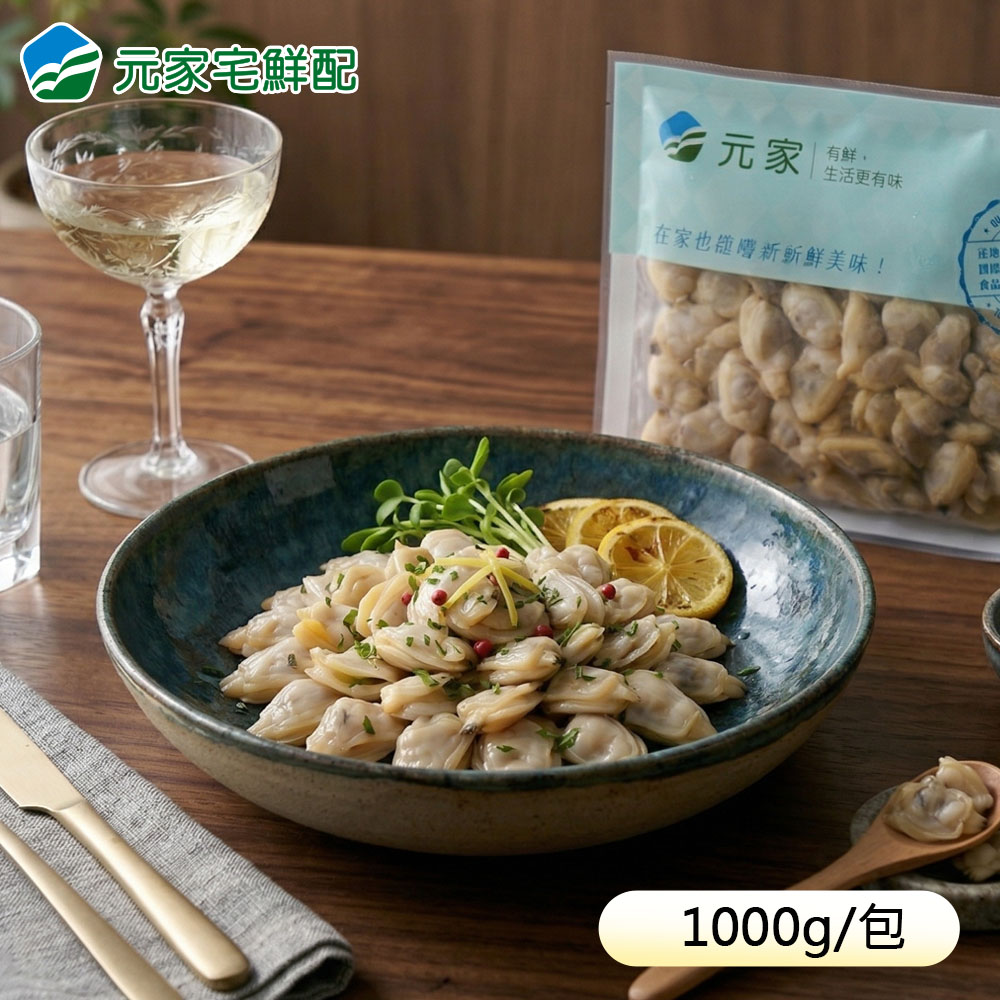
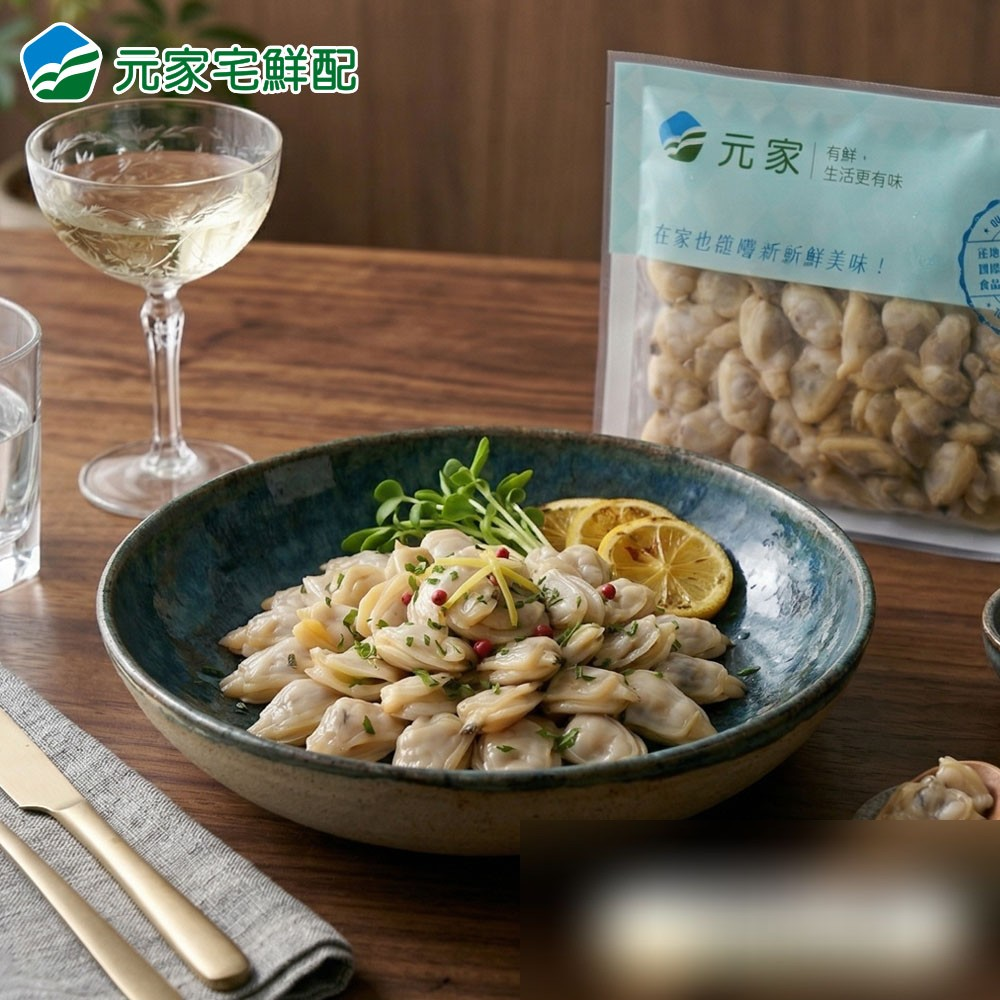
fix(b2c): 購物車商品圖片顯示 + 商品照片規格色塊改用模糊處理
兩個獨立修正：

1. 購物車圖片一直顯示「無圖片」：CartItem（src/lib/cart/store.ts）只存
   productId／slug／name／price／quantity 快照，加入購物車當下沒有把圖片
   存進去。圖片不像名稱／價格會變動，不需要跟著鎖快照，改成用
   `item.slug` 即時查 `getProductPhoto()`（src/lib/product-photos.ts），
   CartDrawer.tsx（Header 下拉）與 cart/cart-page-client.tsx（/cart 頁）
   都補上，沒有對應照片時維持原本「無圖片」佔位，不影響防呆邏輯。

2. 商品照片規格色塊改用模糊處理，取代上次的「維持原圖＋加強文字揭露」：
   使用者重新考慮後認為文字揭露終究是事後說明，客人還是會先看到照片上
   印著跟頁面文字不同的數字。這次直接處理 4 張照片本身（虱目魚肚／鮭魚
   菲力／天使紅蝦／蛤蜊）右下角印著規格重量的色塊區域，用該區域自己的
   像素做強力高斯模糊（不是裁切——裁切會改變圖片長寬比，套進目前
   `aspect-square` 容器的 `object-cover` 裁切結果不可控；模糊後圖片尺寸
   完全不變，只讓色塊上的文字不可讀，視覺上像自然景深失焦，不像後製
   痕跡）。鯖魚、小卷兩張本來就沒有印刷規格，沒有動。

   商品列表／詳情／購物車頁面上次加的「商品照片為近似示意」揭露文字
   維持不變——規格重量的落差處理掉了，但產地／品種／處理方式的落差
   （光看照片看不出來）依然存在，揭露文字對這部分還是必要的。

   product-photos.ts 的 mismatchNote 也同步更新，記錄哪些落差已經在圖片
   層級處理掉、哪些還是只能靠文字揭露。

驗證：pnpm lint／build／test:contracts:static 全過；pnpm test:e2e:b2c
（axe-core WCAG A/AA + 375px/768px）52/52 全過；實測加入購物車後
CartDrawer 與 /cart 頁都正確顯示商品圖片；4 張修圖後的照片人工核對過，
模糊區域完全蓋掉原本的規格文字，沒有裁到商品本體。

Changed region(s): [[0.558, 0.806, 1.0, 1.0]]

diff --git a/src/lib/product-photos.ts b/src/lib/product-photos.ts
@@ -23,12 +23,25 @@ import type { ProductImageRef } from "@/lib/types/product";
  * 重量色塊，且有 3 張（鮭魚菲力／天使紅蝦／蛤蜊）的重量色塊跟資料庫規格
  * 不一致，這 3 筆先前只記錄了產地／品種／處理方式的落差，沒記錄到這個
  * 印在照片上、比較容易被客人直接看出來的重量落差——這次一併補進各筆的
- * `mismatchNote`。使用者確認的處理方式是「維持原圖，不裁圖也不換圖」，
- * 改成在商品列表／詳情／購物車頁面把揭露文字寫更明確（見
+ * `mismatchNote`。第一次的處理方式是「維持原圖，不裁圖也不換圖」，只把
+ * 商品列表／詳情／購物車頁面的揭露文字寫更明確（見
  * src/app/(b2c)/products/page.tsx、products/[slug]/page.tsx、
- * cart/cart-page-client.tsx 的「商品照片為近似示意，包裝與規格請以...
- * 文字為準」），不是靠裁圖或換圖解決。鯖魚、小卷這兩張照片沒有印刷規格，
- * 沒有這個問題。
+ * cart/cart-page-client.tsx）。
+ *
+ * 2026-09-10（使用者重新考慮，改為裁修照片）：文字揭露終究只是「事後說明」，
+ * 客人還是會先看到照片上印著跟頁面文字不同的數字，容易先入為主覺得網站
+ * 資料錯誤——改成直接處理照片本身：4 張印有規格色塊的照片，色塊區域（右下角
+ * 一塊固定位置、固定大小的圓角矩形）都用該區域自己的像素做強力模糊處理
+ * （sharp `.blur(30)`，把模糊過的區域疊回原圖同一位置），不是裁切或去背—
+ * —裁切會改變圖片長寬比，用在目前 `aspect-square` 的顯示容器裡，
+ * `object-cover` 裁切結果不可控；模糊則是圖片尺寸完全不變、只讓色塊上的
+ * 文字看不清楚，看起來像自然的景深失焦，不像明顯的後製痕跡。鯖魚、小卷
+ * 這兩張本來就沒有印刷規格，沒有動。
+ *
+ * 商品列表／詳情／購物車頁面的「商品照片為近似示意」揭露文字**維持不變，
+ * 沒有拿掉**——規格重量的落差已經處理掉了，但產地／品種／處理方式的落差
+ * （見下面各筆 `mismatchNote` 沒有印在照片上的那部分）依然存在，這些是
+ * 光看照片看不出來的，揭露文字對這部分還是必要的，不是重複或多餘。
  */
 export interface ProductPhotoEntry {
   image: ProductImageRef;
@@ -43,7 +56,7 @@ export const PRODUCT_PHOTOS: Record<string, ProductPhotoEntry> = {
       alt: "台灣虱目魚肚示意照（近似商品，非正式商品攝影）",
     },
     mismatchNote:
-      "來源商品標示 160g/片，正式資料庫規格為 180g/包，包裝規格不完全一致。",
+      "來源商品標示 160g/片，正式資料庫規格為 180g/包，包裝規格不完全一致。原始照片印有「160g/片」規格色塊，已於 2026-09-10 用模糊處理蓋掉，圖片現況已無此問題。",
   },
   "seasoned-mackerel": {
     image: {
@@ -59,7 +72,7 @@ export const PRODUCT_PHOTOS: Record<string, ProductPhotoEntry> = {
       alt: "挪威鮭魚菲力示意照（近似商品，非正式商品攝影）",
     },
     mismatchNote:
-      "來源商品產地為智利，正式資料庫產地為挪威，產地不一致；照片本身印有「175g/包」規格色塊，正式資料庫規格為 200g/包，規格也不一致。",
+      "來源商品產地為智利，正式資料庫產地為挪威，產地不一致。原始照片印有「175g/包」規格色塊，跟正式資料庫規格 200g/包 不一致，已於 2026-09-10 用模糊處理蓋掉，圖片現況已無此問題。",
   },
   "argentine-red-shrimp": {
     image: {
@@ -67,7 +80,7 @@ export const PRODUCT_PHOTOS: Record<string, ProductPhotoEntry> = {
       alt: "阿根廷天使紅蝦示意照（近似商品，非正式商品攝影）",
     },
     mismatchNote:
-      "來源商品產地為馬來西亞（完美紅-白蝦），正式資料庫產地為阿根廷，產地與蝦種皆不完全一致；照片本身印有「600g/盒」規格色塊，正式資料庫規格為 500g/盒，規格也不一致。",
+      "來源商品產地為馬來西亞（完美紅-白蝦），正式資料庫產地為阿根廷，產地與蝦種皆不完全一致。原始照片印有「600g/盒」規格色塊，跟正式資料庫規格 500g/盒 不一致，已於 2026-09-10 用模糊處理蓋掉，圖片現況已無此問題。",
   },
   "taiwan-clam": {
     image: {
@@ -75,7 +88,7 @@ export const PRODUCT_PHOTOS: Record<string, ProductPhotoEntry> = {
       alt: "台灣鮮甜蛤蜊示意照（近似商品，非正式商品攝影）",
     },
     mismatchNote:
-      "來源照片為熟凍去殼花蛤肉的情境照，跟正式商品「台灣鮮甜蛤蜊」的帶殼／處理方式可能不完全一致；照片本身印有「1000g/包」規格色塊，正式資料庫規格為 500g/包，規格也不一致。",
+      "來源照片為熟凍去殼花蛤肉的情境照，跟正式商品「台灣鮮甜蛤蜊」的帶殼／處理方式可能不完全一致。原始照片印有「1000g/包」規格色塊，跟正式資料庫規格 500g/包 不一致，已於 2026-09-10 用模糊處理蓋掉，圖片現況已無此問題。",
   },
   /**
    * 2026-09-04：`taiwan-squid`（台灣鮮甜小卷）是 9/4 最終回歸測試時，發現

diff --git a/src/components/CartDrawer.tsx b/src/components/CartDrawer.tsx
@@ -1,8 +1,10 @@
 "use client";
 
 import { useEffect, useRef, useState } from "react";
+import Image from "next/image";
 import Link from "next/link";
 import { useCart } from "@/lib/cart/useCart";
+import { getProductPhoto } from "@/lib/product-photos";
 import { editorialButtonSolid, editorialStepperButton, editorialStepperInput, editorialStepperWrap } from "@/lib/editorial/styles";
 
 /**
@@ -43,6 +45,15 @@ import { editorialButtonSolid, editorialStepperButton, editorialStepperInput, ed
  * rgb 值（原本對應 `#2b2b2b`＝rgb(43,43,43)，現在對應 `#0B1620`＝
  * rgb(11,22,32)），純粹是陰影顏色本身要跟著新的文字／邊框色系一致，不是
  * 新增或調整陰影效果。
+ *
+ * 2026-09-10（使用者回報購物車品項一直顯示「無圖片」）：CartItem
+ * （src/lib/cart/store.ts）只存 productId／slug／name／price／quantity，
+ * 加入購物車當下沒有把圖片一起存進快照——這是刻意的（名稱／價格要鎖住
+ * 加入當下的值），但圖片不像名稱／價格會變動，沒有必要跟著鎖快照，所以
+ * 用 `item.slug` 即時查 `getProductPhoto()`（src/lib/product-photos.ts）
+ * 取圖，不用改 CartItem 的資料結構、也不用處理 localStorage 舊資料的
+ * 相容性問題。沒有對應照片的 slug（目前 6 筆商品都有）維持顯示「無圖片」
+ * 佔位，不是把整個防呆邏輯拿掉。
  */
 export function CartDrawer() {
   const { items, totalPrice, updateQuantity, removeItem } = useCart();
@@ -161,14 +172,22 @@ export function CartDrawer() {
             ) : (
               <>
                 <ul className="flex flex-1 flex-col gap-5 overflow-y-auto px-6 py-5">
-                  {items.map((item) => (
+                  {items.map((item) => {
+                    const photo = getProductPhoto(item.slug);
+                    return (
                     <li key={item.productId} className="flex gap-3 border-b border-[#0B1620]/10 pb-5 last:border-0 last:pb-0">
-                      <div
-                        aria-hidden="true"
-                        className="flex h-16 w-16 shrink-0 items-center justify-center bg-[#F6FBFC] text-[10px] text-[#536168]"
-                      >
-                        無圖片
-                      </div>
+                      {photo ? (
+                        <div className="relative h-16 w-16 shrink-0 overflow-hidden bg-[#F6FBFC]">
+                          <Image src={photo.url} alt={photo.alt} fill sizes="64px" className="object-cover" />
+                        </div>
+                      ) : (
+                        <div
+                          aria-hidden="true"
+                          className="flex h-16 w-16 shrink-0 items-center justify-center bg-[#F6FBFC] text-[10px] text-[#536168]"
+                        >
+                          無圖片
+                        </div>
+                      )}
                       <div className="flex min-w-0 flex-1 flex-col gap-1">
                         <Link
                           href={`/products/${item.slug}`}
@@ -214,7 +233,8 @@ export function CartDrawer() {
                         🗑
                       </button>
                     </li>
-                  ))}
+                    );
+                  })}
                 </ul>
 
                 <div className="flex flex-col gap-3 border-t border-[#0B1620]/15 px-6 py-5">

diff --git a/src/app/(b2c)/cart/cart-page-client.tsx b/src/app/(b2c)/cart/cart-page-client.tsx
@@ -1,7 +1,9 @@
 "use client";
 
+import Image from "next/image";
 import Link from "next/link";
 import { useCart } from "@/lib/cart/useCart";
+import { getProductPhoto } from "@/lib/product-photos";
 import { editorialButtonSolid, editorialStepperButton, editorialStepperInput, editorialStepperWrap } from "@/lib/editorial/styles";
 
 /**
@@ -24,6 +26,11 @@ import { editorialButtonSolid, editorialStepperButton, editorialStepperInput, ed
  * 增減數量按鈕（見下方）本來就有 `減少／增加 {name} 數量` 這種帶商品名稱的
  * aria-label，也是 CartDrawer.tsx 移除按鈕原本就有的寫法，這裡補齊讓兩處
  * 一致。
+ *
+ * 2026-09-10（使用者回報購物車品項一直顯示「無商品圖片」，跟 CartDrawer.tsx
+ * 同一個根因、同一個修法）：CartItem 沒有存圖片快照，改用 `item.slug` 即時
+ * 查 `getProductPhoto()`（src/lib/product-photos.ts），詳細理由見
+ * CartDrawer.tsx 同一天的檔頭註解，不重複寫一次。
  */
 export function CartPageClient() {
   const { items, totalPrice, updateQuantity, removeItem, clearCart } = useCart();
@@ -63,14 +70,22 @@ export function CartPageClient() {
       </div>
 
       <ul className="flex flex-col">
-        {items.map((item) => (
+        {items.map((item) => {
+          const photo = getProductPhoto(item.slug);
+          return (
           <li key={item.productId} className="flex flex-wrap items-center gap-4 border-b border-[#0B1620]/10 py-6">
-            <div
-              aria-hidden="true"
-              className="flex h-16 w-16 shrink-0 items-center justify-center bg-[#F6FBFC] text-[10px] text-[#536168]"
-            >
-              無商品圖片
-            </div>
+            {photo ? (
+              <div className="relative h-16 w-16 shrink-0 overflow-hidden bg-[#F6FBFC]">
+                <Image src={photo.url} alt={photo.alt} fill sizes="64px" className="object-cover" />
+              </div>
+            ) : (
+              <div
+                aria-hidden="true"
+                className="flex h-16 w-16 shrink-0 items-center justify-center bg-[#F6FBFC] text-[10px] text-[#536168]"
+              >
+                無商品圖片
+              </div>
+            )}
 
             <div className="flex min-w-[8rem] flex-1 flex-col gap-1">
               <Link
@@ -118,7 +133,8 @@ export function CartPageClient() {
               REMOVE
             </button>
           </li>
-        ))}
+          );
+        })}
       </ul>
 
       <div className="flex flex-col gap-4 border-t border-[#0B1620]/15 pt-6">
